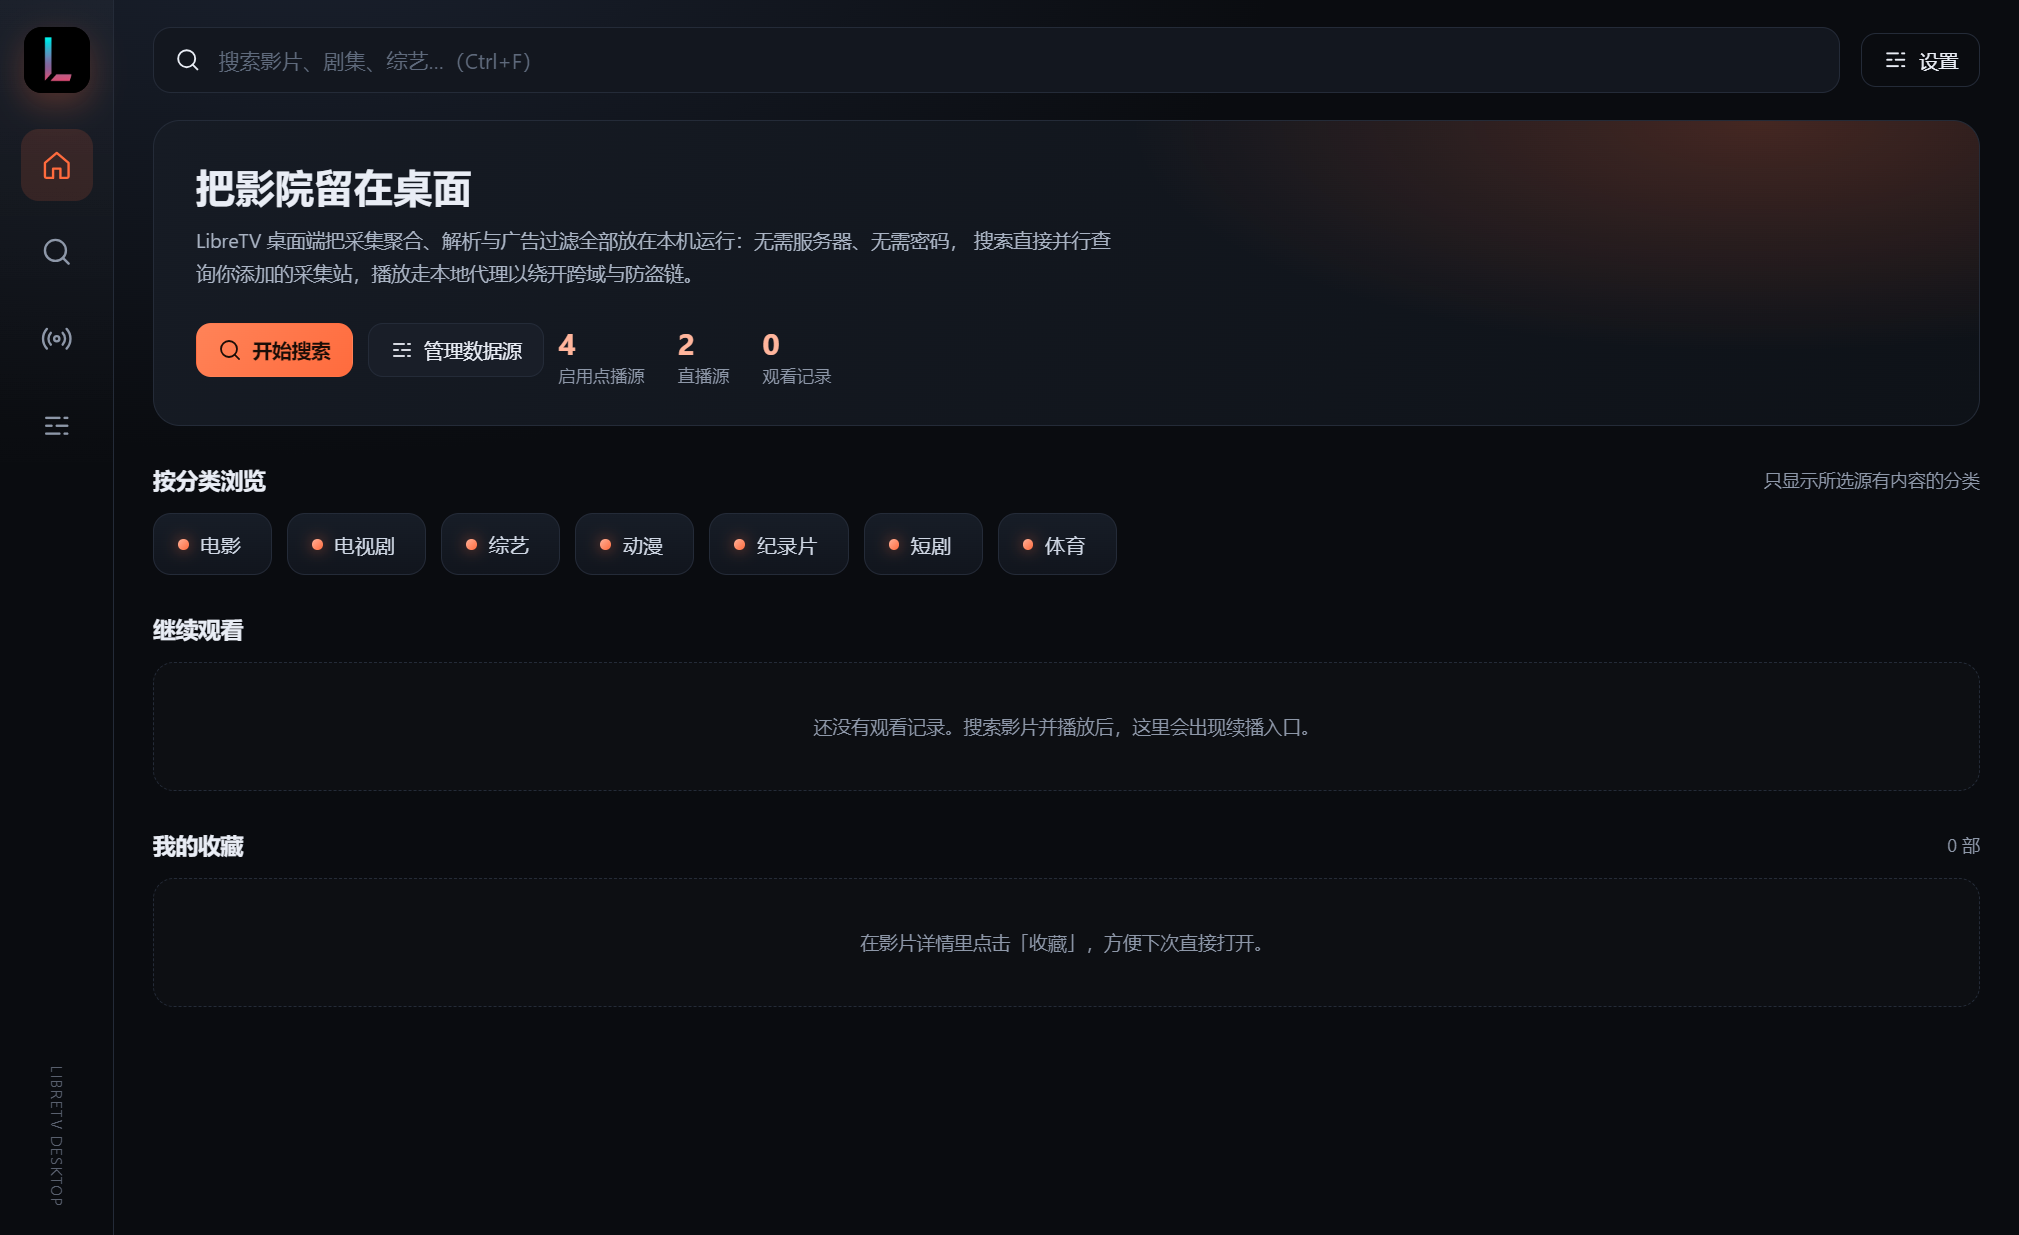
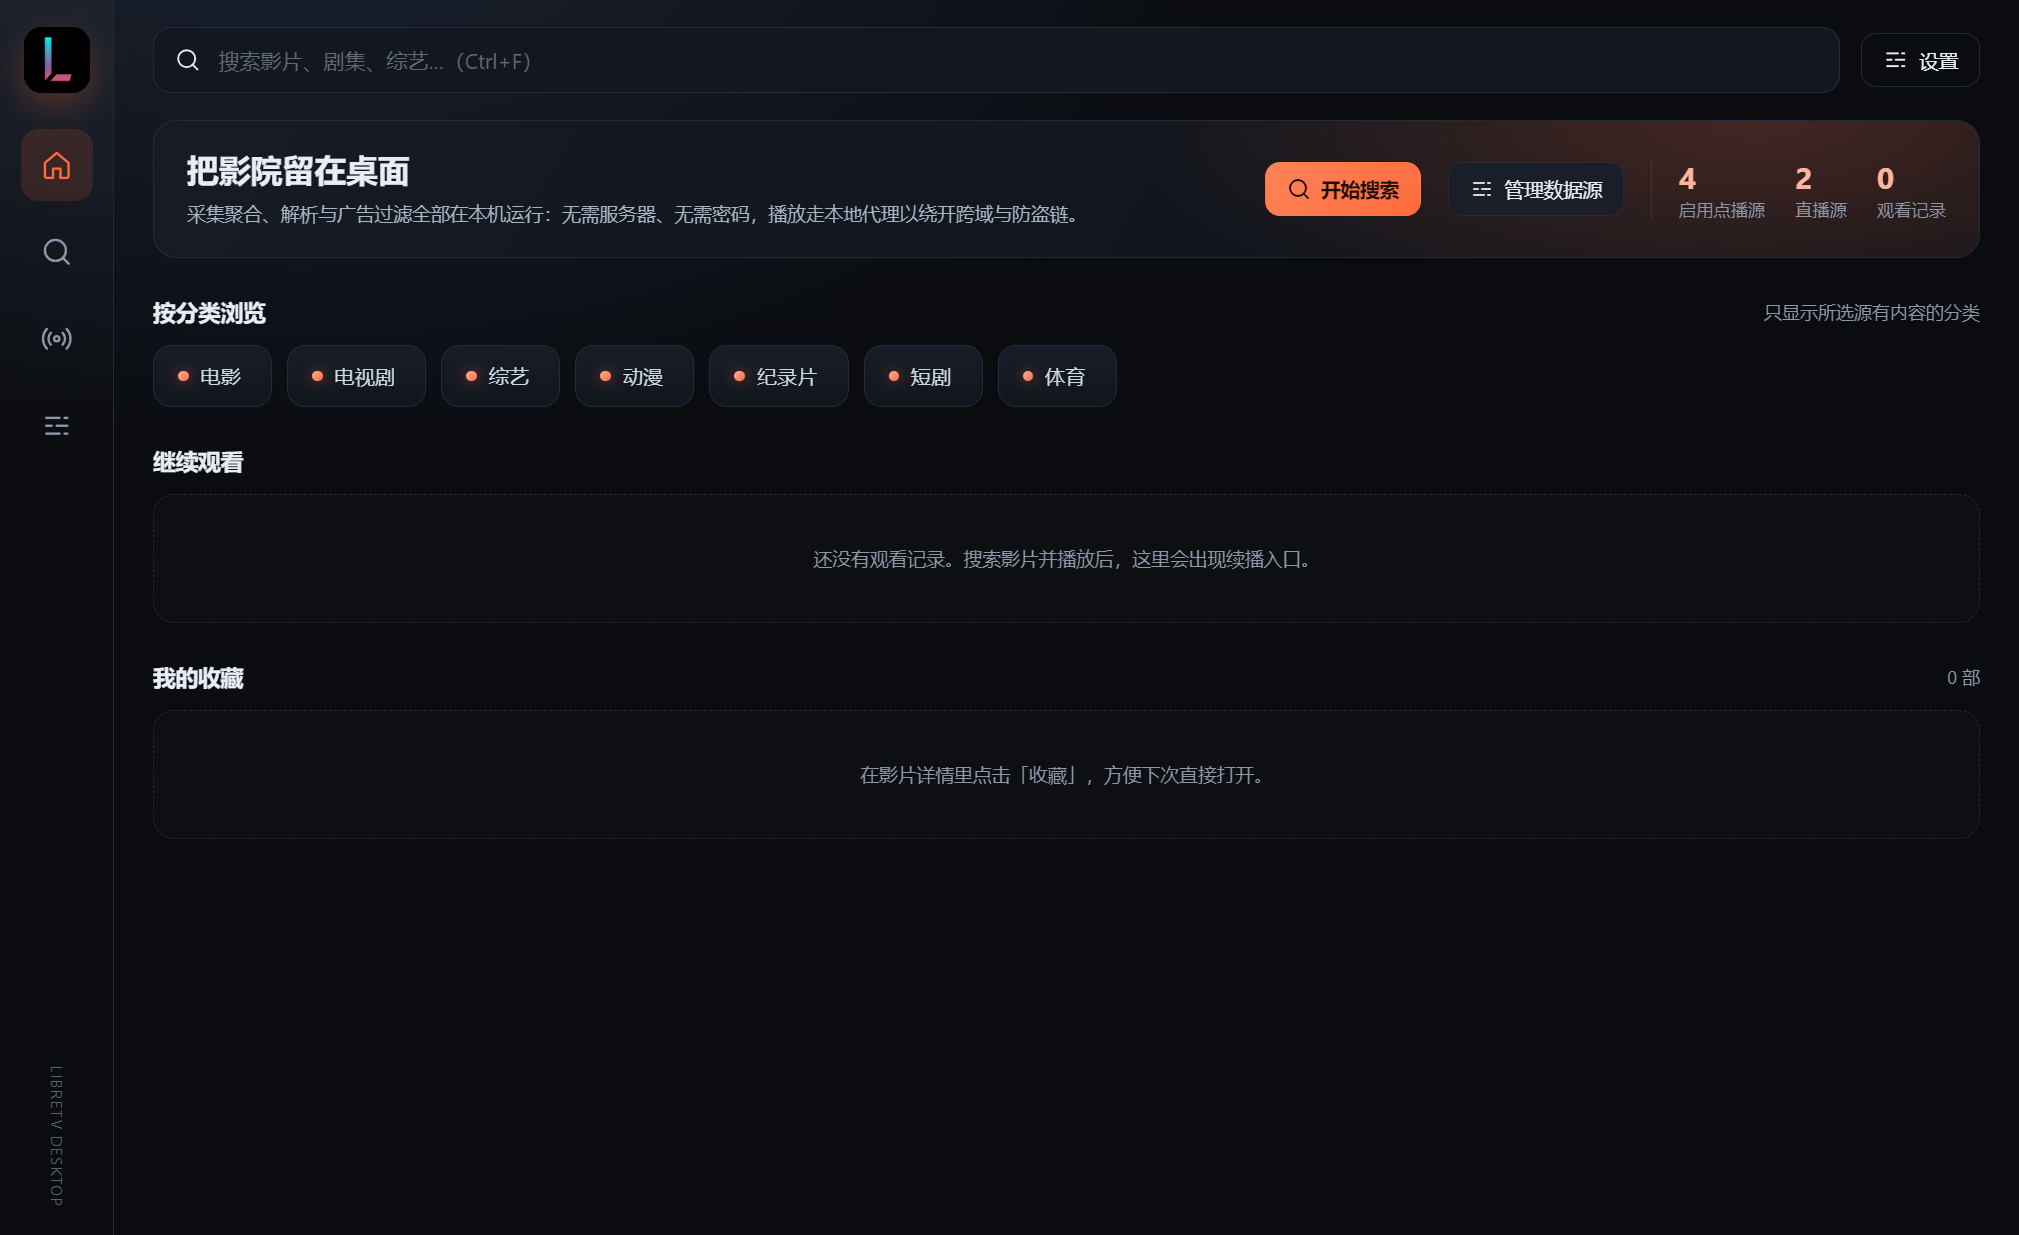
feat: 首页横幅改为两栏布局（桌面 204→92px、TV 232→152dp），分类空态文案区分三种原因
首页横幅原来四段竖排，在 823px 高的桌面窗口占 25%、540dp 设计高的 TV 占 43%，正下方最该被看到的分类入口要滚一屏才出现。改为左文案右操作的两栏结构，并补 flex-wrap 兜底（1024px 窄窗口下右栏换行，高 113px，无横向溢出）。TV 端用 Row + weight 实现同样的两栏，统计标签缩短以在 540dp 内放下。

顺带修 CategoryButtons：一个源都没加、源全被停用、探测出空结果三种情况原来都说「暂未返回任何分类内容」，现在分别给出对应引导。

新增 tools/e2e/resize.mjs（CDP 覆盖视口量布局溢出）与 watch-categories.mjs（冷启动每 25ms 采样分类栏，抓错误中间态）。

diff --git a/apps/androidtv/app/src/main/java/org/libretv/tv/ui/HomeScreen.kt b/apps/androidtv/app/src/main/java/org/libretv/tv/ui/HomeScreen.kt
@@ -207,53 +207,65 @@ private fun HomeHero(
     onCast: () -> Unit,
     firstFocus: FocusRequester,
 ) {
+    // 横幅高度从 232dp 收到 152dp：原来是标题 / 说明 / 按钮 / 统计四行竖排，
+    // 在 540dp 的设计高度里吃掉 43%，下面「分类浏览」要滚一屏才看得到。
+    // 改成左右两栏——左边只说清这是什么，右边全是可操作项，一行就够。
     Box(
         Modifier
             .fillMaxWidth()
-            .height(232.dp)
-            .clip(RoundedCornerShape(20.dp))
+            .height(152.dp)
+            .clip(RoundedCornerShape(18.dp))
             .background(
                 Brush.horizontalGradient(
                     0f to Color(0xFF171C26),
                     1f to Color(0xFF0E1218),
                 )
             )
-            .padding(horizontal = 34.dp, vertical = 26.dp),
+            .padding(horizontal = 28.dp),
     ) {
         Box(
             Modifier
-                .size(320.dp)
+                .size(280.dp)
                 .align(Alignment.CenterEnd)
                 .background(
                     Brush.radialGradient(
-                        listOf(Color(0x66FF6B3D), Color.Transparent)
+                        listOf(Color(0x55FF6B3D), Color.Transparent)
                     )
                 )
         )
-        Column {
-            Text(
-                "LibreTV · 电视版",
-                color = TextPrimary,
-                fontSize = MaterialTheme.typography.headlineLarge.fontSize,
-                fontWeight = FontWeight.Bold,
-            )
-            Spacer(Modifier.height(8.dp))
-            Text(
-                "搜索聚合、解析与播放全部在本机完成：无需服务器，手机投屏可直接接收。",
-                color = TextMuted,
-                fontSize = MaterialTheme.typography.bodyMedium.fontSize,
-            )
-            Spacer(Modifier.height(20.dp))
-            Row(horizontalArrangement = Arrangement.spacedBy(12.dp)) {
-                TvButton("开始搜索", onSearch, primary = true, focusRequester = firstFocus)
-                TvButton("数据源设置", onSettings)
-                TvButton("投屏接收", onCast)
+        Row(
+            Modifier.fillMaxSize(),
+            verticalAlignment = Alignment.CenterVertically,
+            horizontalArrangement = Arrangement.spacedBy(24.dp),
+        ) {
+            Column(Modifier.weight(1f)) {
+                Text(
+                    "LibreTV · 电视版",
+                    color = TextPrimary,
+                    fontSize = MaterialTheme.typography.headlineMedium.fontSize,
+                    fontWeight = FontWeight.Bold,
+                    maxLines = 1,
+                )
+                Spacer(Modifier.height(6.dp))
+                Text(
+                    "搜索聚合、解析与播放全部在本机完成",
+                    color = TextMuted,
+                    fontSize = MaterialTheme.typography.bodyMedium.fontSize,
+                    maxLines = 2,
+                )
             }
-            Spacer(Modifier.height(14.dp))
-            Row(horizontalArrangement = Arrangement.spacedBy(22.dp)) {
-                HeroStat("${data.activeSources().size}", "启用点播源")
-                HeroStat("${data.activeLiveSources().size}", "启用直播源")
-                HeroStat("${data.history.size}", "观看记录")
+            Column(horizontalAlignment = Alignment.End) {
+                Row(horizontalArrangement = Arrangement.spacedBy(10.dp)) {
+                    TvButton("开始搜索", onSearch, primary = true, focusRequester = firstFocus)
+                    TvButton("数据源设置", onSettings)
+                    TvButton("投屏接收", onCast)
+                }
+                Spacer(Modifier.height(12.dp))
+                Row(horizontalArrangement = Arrangement.spacedBy(20.dp)) {
+                    HeroStat("${data.activeSources().size}", "点播源")
+                    HeroStat("${data.activeLiveSources().size}", "直播源")
+                    HeroStat("${data.history.size}", "记录")
+                }
             }
         }
     }

diff --git a/apps/desktop/src/renderer/src/pages/Home.tsx b/apps/desktop/src/renderer/src/pages/Home.tsx
@@ -109,12 +109,13 @@ export function HomePage({
   return (
     <>
       <div className="hero">
-        <h1>把影院留在桌面</h1>
-        <p>
-          LibreTV 桌面端把采集聚合、解析与广告过滤全部放在本机运行：无需服务器、无需密码，
-          搜索直接并行查询你添加的采集站，播放走本地代理以绕开跨域与防盗链。
-        </p>
-        <div className="row">
+        <div className="hero-copy">
+          <h1>把影院留在桌面</h1>
+          <p>
+            采集聚合、解析与广告过滤全部在本机运行：无需服务器、无需密码，播放走本地代理以绕开跨域与防盗链。
+          </p>
+        </div>
+        <div className="hero-actions">
           <button className="btn primary" onClick={() => onSearch(recentSearches[0] ?? '')}>
             <Icon name="search" size={16} />
             开始搜索
@@ -141,7 +142,7 @@ export function HomePage({
       </div>
 
       {recentSearches.length > 0 ? (
-        <div className="row" style={{ flexWrap: 'wrap', gap: 8, marginTop: 16 }}>
+        <div className="row" style={{ flexWrap: 'wrap', gap: 8, marginTop: 12 }}>
           <span style={{ color: '#8d97a8', fontSize: 12 }}>最近搜索</span>
           {recentSearches.slice(0, 8).map((kw) => (
             <button key={kw} className="chip" style={{ cursor: 'pointer' }} onClick={() => onSearch(kw)}>

diff --git a/apps/desktop/src/renderer/src/styles.css b/apps/desktop/src/renderer/src/styles.css
@@ -760,15 +760,31 @@ textarea.input {
   color: #c5f3dd;
 }
 
+/* 首页横幅：左文案 + 右操作/统计，两列并排后高度从 204px 收到 ~120px */
 .hero {
   position: relative;
-  border-radius: 18px;
+  display: flex;
+  align-items: center;
+  gap: 28px;
+  flex-wrap: wrap;
+  border-radius: 16px;
   border: 1px solid var(--line);
-  padding: 26px 28px;
+  padding: 18px 22px;
   background:
     radial-gradient(600px 220px at 88% 0%, rgba(255, 107, 61, 0.22), transparent 70%),
     linear-gradient(120deg, #161b24, #0e1218);
   overflow: hidden;
+}
+.hero-copy {
+  flex: 1 1 340px;
+  min-width: 0;
+}
+.hero-actions {
+  display: flex;
+  align-items: center;
+  gap: 18px;
+  flex: 0 0 auto;
+  margin-left: auto;
 }
 
 /* 首页分类入口：横向胶囊按钮，hover 上浮 + 橙色描边 */
@@ -806,21 +822,22 @@ textarea.input {
   flex: none;
 }
 .hero h1 {
-  margin: 0 0 8px;
-  font-size: 26px;
-  letter-spacing: 0.3px;
+  margin: 0 0 6px;
+  font-size: 21px;
+  letter-spacing: 0.2px;
 }
 .hero p {
-  margin: 0 0 16px;
+  margin: 0;
   color: #a9b3c3;
-  font-size: 13px;
-  line-height: 1.7;
+  font-size: 12.5px;
+  line-height: 1.65;
   max-width: 620px;
 }
 .hero-stats {
   display: flex;
-  gap: 22px;
-  margin-top: 6px;
+  gap: 20px;
+  padding-left: 18px;
+  border-left: 1px solid rgba(255, 255, 255, 0.07);
 }
 .stat .n {
   font-size: 20px;

diff --git a/apps/desktop/src/renderer/src/pages/Category.tsx b/apps/desktop/src/renderer/src/pages/Category.tsx
@@ -325,7 +325,28 @@ export function useAvailableCategories(): CategoryKey[] | undefined {
 
 /** 供首页复用的分类按钮行：只显示真的抓得到内容的分类 */
 export function CategoryButtons({ onSelect }: { onSelect: (key: CategoryKey) => void }) {
+  const allSources = useAppStore((s) => s.sources);
+  const selectedKeys = useAppStore((s) => s.selectedKeys);
   const available = useAvailableCategories();
+
+  if (allSources.length === 0) {
+    // 「一个源都没有」和「源没有这个分类」是两件事：前者要去设置里加源，
+    // 说成「暂未返回任何分类内容」会把用户引到错误的方向
+    return (
+      <div className="category-bar">
+        <span className="hint">还没有点播源，先在「设置 → 点播源」里添加一个采集站</span>
+      </div>
+    );
+  }
+
+  if (allSources.every((s) => !selectedKeys.includes(s.key))) {
+    // 同上：源都在，但全被停用了。这也不是「源没有内容」
+    return (
+      <div className="category-bar">
+        <span className="hint">所有点播源都已停用，在「设置 → 点播源」里打开开关即可</span>
+      </div>
+    );
+  }
 
   if (available === undefined) {
     // 探测中先摆全部（避免布局跳动），完成后收敛到有内容的那些
